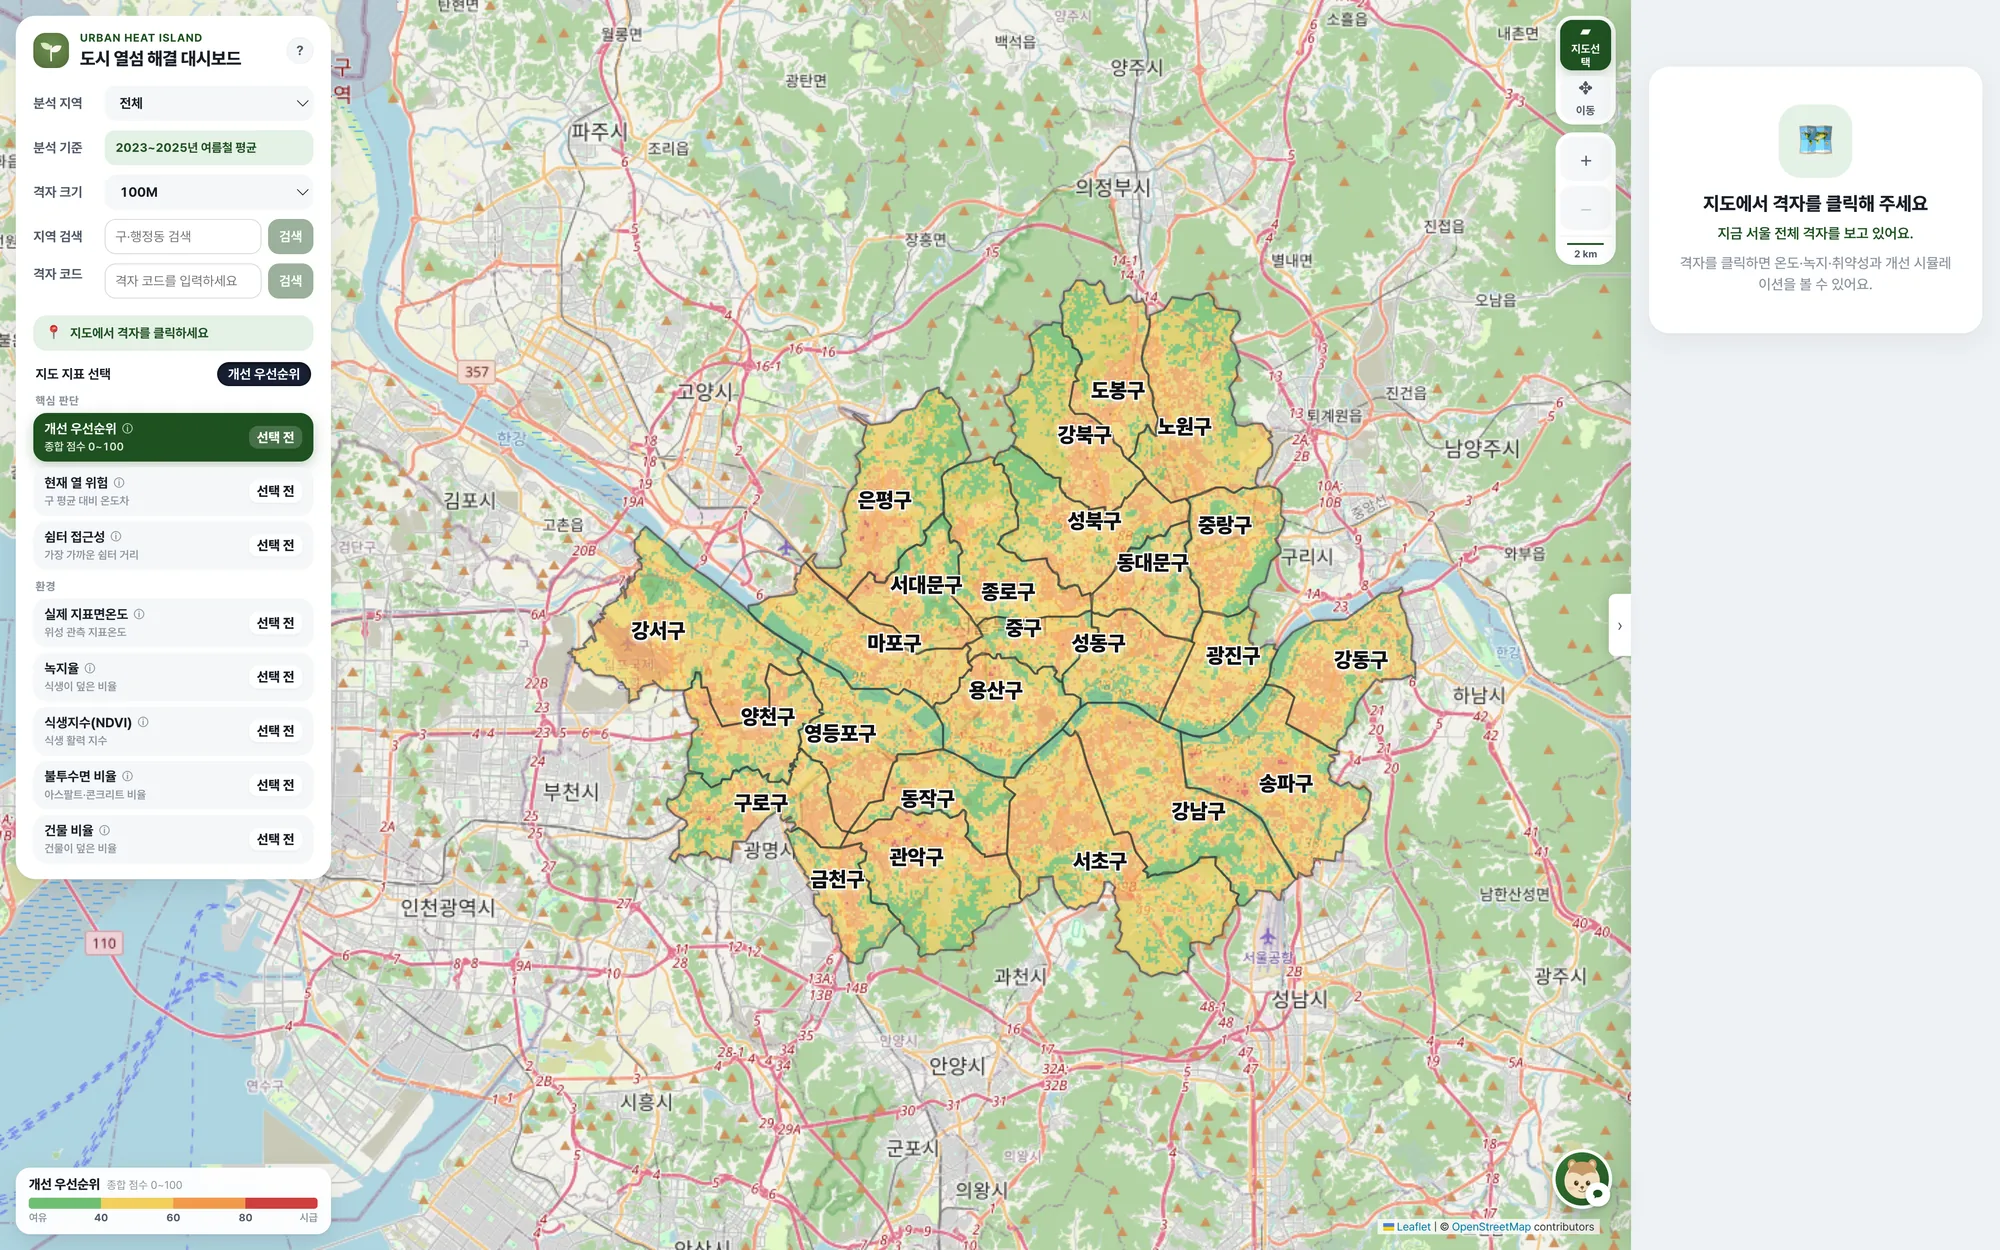
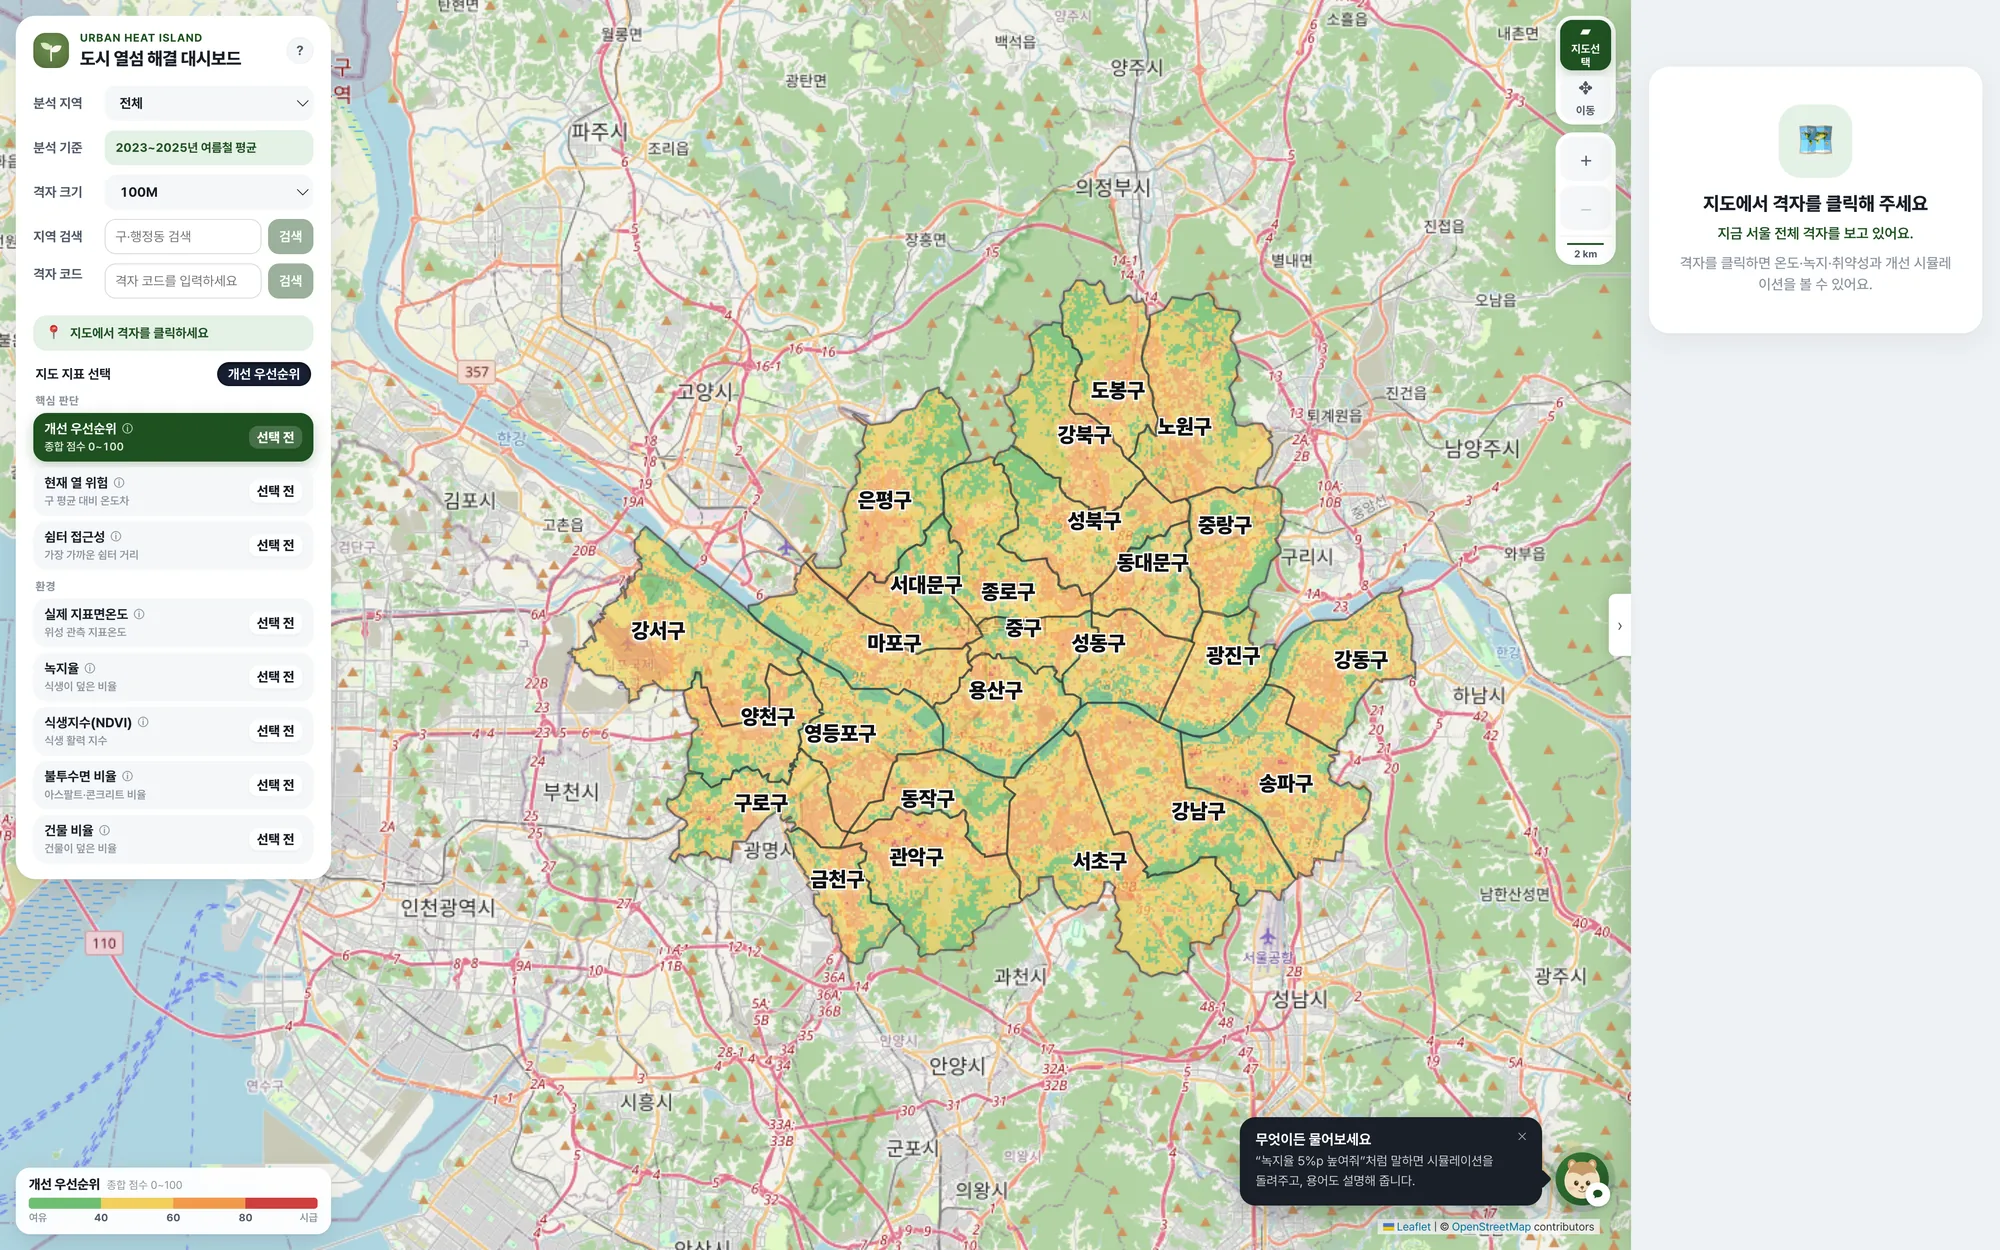
feat: 가이드 글 정리 + 챗봇 안내 (#93)
**글씨** — 같은 크기의 문단이 쌓여 있어 어디부터 읽을지 알기 어려웠다. 첫 줄은
그 단계의 요점으로 크고 진하게(15px), 나머지는 초록 점을 단 목록(13px)으로 나눴다.

**챗봇을 알리는 문제** — 버튼이 마스코트 얼굴 + 말풍선 배지인데, 이름표가 hover
로만 떠서 처음 온 사람은 챗봇이 있다는 걸 영영 모른다. 마우스를 올려볼 이유가
없기 때문이다. 두 군데서 알린다.

1. 가이드에 5단계 '말로 물어봐도 됩니다' 추가. 챗봇 창 사진과 함께 무엇을 물을
   수 있는지 예시로 보여준다.
2. 가이드를 닫으면 버튼 옆에 말풍선이 한 번 뜨고 버튼에 초록 테두리가 생긴다.
   가이드와 동시에 띄우면 둘 다 안 읽히므로, 가이드가 닫히는 시점을 이벤트로
   받아 그 뒤에 띄운다. 재방문자(가이드를 이미 본 사람)에게는 바로 뜬다.
   한 번 닫으면 gaon_chat_hint_seen 으로 기억해 다시 뜨지 않는다.

diff --git a/src/styles.css b/src/styles.css
@@ -53,6 +53,7 @@
 .gridDetailSidePanel,
 .aiChatDock,
 .aiChatFab,
+.aiChatHint,
 .leaflet-control-container {
   zoom: var(--ui-scale);
 }
@@ -3707,6 +3708,12 @@ body.isDraggingChatDock .aiChatDock .gdpChatHeader{ cursor:grabbing; }
   right: calc(var(--detail-panel-width) + var(--chat-edge-gap));
 }
 
+.gisShell.panelOpen .aiChatHint {
+  right: calc(
+    var(--detail-panel-width) + var(--chat-edge-gap) + var(--chat-fab-size) + 12px
+  );
+}
+
 .aiChatDock,
 .aiChatFab {
   transition-property: right, transform, box-shadow;
@@ -3719,6 +3726,9 @@ body.isDraggingChatDock .aiChatDock .gdpChatHeader{ cursor:grabbing; }
   .gisShell.panelOpen .aiChatDock,
   .gisShell.panelOpen .aiChatFab {
     right: 16px;
+  }
+  .gisShell.panelOpen .aiChatHint {
+    right: calc(16px + var(--chat-fab-size) + 12px);
   }
   .gisShell.panelOpen .aiChatDock {
     right: 0;
@@ -4499,11 +4509,44 @@ body.isDraggingChatDock .aiChatDock .gdpChatHeader{ cursor:grabbing; }
   min-width: 0;
 }
 
-.onboardingBody p {
-  margin: 0 0 9px;
+/* 첫 줄(요점)은 크고 진하게, 나머지는 초록 점을 단 목록으로. 전부 같은 크기로
+   쌓으면 어디부터 읽어야 할지 모를 문단 덩어리가 된다. */
+.onboardingLead {
+  margin: 0;
+  color: var(--gdp-ink);
+  font-size: 15px;
+  font-weight: 600;
+  line-height: 1.6;
+  letter-spacing: -0.01em;
+}
+
+.onboardingText ul {
+  display: flex;
+  margin: 14px 0 0;
+  flex-direction: column;
+  gap: 10px;
+  padding: 0;
+  list-style: none;
+}
+
+.onboardingText li {
+  position: relative;
+  padding-left: 15px;
   color: var(--gdp-ink2);
-  font-size: 13.5px;
-  line-height: 1.7;
+  font-size: 13px;
+  line-height: 1.65;
+}
+
+.onboardingText li::before {
+  position: absolute;
+  top: 8px;
+  left: 0;
+  width: 5px;
+  height: 5px;
+  border-radius: 50%;
+  background: var(--gdp-green);
+  content: '';
+  opacity: 0.55;
 }
 
 /* 사진 자리는 비율로 잡아둔다. 사진이 아직 없어도 팝업 높이가 단계마다
@@ -4550,10 +4593,11 @@ body.isDraggingChatDock .aiChatDock .gdpChatHeader{ cursor:grabbing; }
 
   .onboardingText {
     display: flex;
-    width: 308px;
+    width: 320px;
     flex: none;
     flex-direction: column;
     justify-content: center;
+    padding-right: 4px;
   }
 }
 
@@ -4647,4 +4691,91 @@ body.isDraggingChatDock .aiChatDock .gdpChatHeader{ cursor:grabbing; }
 
 .onboardingRecall b {
   color: var(--gdp-ink2);
+}
+
+
+/* ── 챗봇 첫 안내 말풍선 ────────────────────────────────────────────────
+   버튼은 마스코트 얼굴 + 말풍선 배지인데, 처음 온 사람은 마우스를 올려볼 이유가
+   없어 이름표(hover 툴팁)를 영영 못 본다. 첫 접속에 한 번만 옆에 띄운다.
+   위치는 FAB 과 같은 기준(오른쪽 아래)에서 버튼 폭만큼 왼쪽으로 민 자리다. */
+.aiChatHint {
+  position: fixed;
+  z-index: 1101;
+  right: calc(var(--chat-edge-gap) + var(--chat-fab-size) + 12px);
+  bottom: var(--chat-bottom-gap);
+  display: grid;
+  max-width: min(272px, calc(100vw - 130px));
+  gap: 3px;
+  padding: 12px 32px 13px 14px;
+  border-radius: 14px;
+  background: #191f28;
+  box-shadow: 0 10px 28px rgba(15, 22, 33, 0.28);
+  color: #ffffff;
+  animation: aiChatHintIn 0.28s ease both;
+}
+
+.aiChatHint strong {
+  font-size: 13px;
+  font-weight: 700;
+}
+
+.aiChatHint span {
+  color: rgba(255, 255, 255, 0.78);
+  font-size: 11.5px;
+  line-height: 1.55;
+}
+
+/* 어느 버튼을 말하는지 알 수 있게 꼬리를 단다. */
+.aiChatHint::after {
+  position: absolute;
+  right: -6px;
+  bottom: 18px;
+  width: 12px;
+  height: 12px;
+  transform: rotate(45deg);
+  border-radius: 2px;
+  background: #191f28;
+  content: '';
+}
+
+.aiChatHintClose {
+  position: absolute;
+  top: 7px;
+  right: 8px;
+  width: 20px;
+  height: 20px;
+  padding: 0;
+  border: 0;
+  border-radius: 6px;
+  background: transparent;
+  color: rgba(255, 255, 255, 0.6);
+  cursor: pointer;
+  font-size: 10px;
+}
+
+.aiChatHintClose:hover {
+  background: rgba(255, 255, 255, 0.12);
+  color: #ffffff;
+}
+
+/* 말풍선이 떠 있는 동안에는 버튼도 한 번 눈에 띄게 한다. */
+.aiChatFab.hasHint {
+  box-shadow: 0 0 0 6px rgba(31, 81, 33, 0.18), 0 10px 24px rgba(20, 30, 45, 0.24);
+}
+
+@keyframes aiChatHintIn {
+  from {
+    opacity: 0;
+    transform: translateX(8px);
+  }
+  to {
+    opacity: 1;
+    transform: translateX(0);
+  }
+}
+
+@media (prefers-reduced-motion: reduce) {
+  .aiChatHint {
+    animation: none;
+  }
 }

diff --git a/src/components/AiChatLauncher.tsx b/src/components/AiChatLauncher.tsx
@@ -1,6 +1,32 @@
 import { useEffect, useRef, useState } from 'react';
 import AiChatView from './AiChatView';
 import { applyDockPosition, createDockDrag, loadDockPosition } from '../chatDockDrag';
+import { GUIDE_CLOSED_EVENT, ONBOARDING_STORAGE_KEY } from './OnboardingGuide';
+
+/**
+ * 챗봇이 있다는 걸 한 번은 말해준다.
+ *
+ * 버튼은 마스코트 얼굴 + 말풍선 배지인데, 처음 온 사람은 마우스를 올려볼 이유가
+ * 없어서 이름표(hover 툴팁)를 영영 못 본다. 그래서 첫 접속에 딱 한 번, 버튼 옆에
+ * 말풍선을 띄운다. 한 번 본 뒤에는 다시 뜨지 않는다.
+ */
+const CHAT_HINT_STORAGE_KEY = 'gaon_chat_hint_seen';
+
+function readFlag(key: string): boolean {
+  try {
+    return window.localStorage.getItem(key) === '1';
+  } catch {
+    return true;   // 저장을 못 읽는 환경이면 '이미 봤다'로 친다. 매번 뜨는 게 더 나쁘다.
+  }
+}
+
+function writeFlag(key: string) {
+  try {
+    window.localStorage.setItem(key, '1');
+  } catch {
+    // 저장이 막혀도 이번 방문에는 안 뜬다. 기능은 막지 않는다.
+  }
+}
 
 // GA:ON AI 채팅 진입점.
 //
@@ -63,6 +89,9 @@ export default function AiChatLauncher({
   const [isOpen, setIsOpen] = useState(false);
   // 창을 닫아둔 사이에 답변이 도착했는지. 요청은 창을 닫아도 계속 진행된다.
   const [hasUnread, setHasUnread] = useState(false);
+  // 첫 접속 말풍선. 사용 가이드가 떠 있는 동안 같이 뜨면 둘 다 안 읽히므로,
+  // 가이드를 아직 안 본 사람은 가이드가 닫힌 뒤에 띄운다.
+  const [hintOpen, setHintOpen] = useState(false);
   const fabRef = useRef<HTMLButtonElement>(null);
   const dockRef = useRef<HTMLDivElement>(null);
 
@@ -83,6 +112,26 @@ export default function AiChatLauncher({
   useEffect(() => {
     if (isOpen) dockRef.current?.focus();
   }, [isOpen]);
+
+  // 말풍선을 언제 띄울지. 이미 본 사람에게는 띄우지 않는다.
+  useEffect(() => {
+    if (readFlag(CHAT_HINT_STORAGE_KEY)) return;
+
+    // 가이드를 이미 본 사람(재방문)이면 바로, 처음 온 사람이면 가이드를 닫은 뒤.
+    if (readFlag(ONBOARDING_STORAGE_KEY)) {
+      setHintOpen(true);
+      return;
+    }
+    const onGuideClosed = () => setHintOpen(true);
+    window.addEventListener(GUIDE_CLOSED_EVENT, onGuideClosed);
+    return () => window.removeEventListener(GUIDE_CLOSED_EVENT, onGuideClosed);
+  }, []);
+
+  function dismissHint() {
+    if (!hintOpen) return;
+    setHintOpen(false);
+    writeFlag(CHAT_HINT_STORAGE_KEY);
+  }
 
   // 창을 헤더로 끌어 옮긴다.
   //
@@ -146,10 +195,29 @@ export default function AiChatLauncher({
         />
       </div>
 
+      {/* 첫 접속 말풍선. 버튼 안에 넣을 수 없다 — 닫기 버튼이 들어가는데 버튼
+          안의 버튼은 안 된다. 그래서 형제로 두고 위치를 따로 잡는다. */}
+      {hintOpen && !isOpen && (
+        <div className="aiChatHint" role="status">
+          <strong>무엇이든 물어보세요</strong>
+          <span>
+            “녹지율 5%p 높여줘”처럼 말하면 시뮬레이션을 돌려주고, 용어도 설명해 줍니다.
+          </span>
+          <button
+            className="aiChatHintClose"
+            type="button"
+            aria-label="안내 닫기"
+            onClick={dismissHint}
+          >
+            ✕
+          </button>
+        </div>
+      )}
+
       <button
         ref={fabRef}
         type="button"
-        className={`aiChatFab${isOpen ? ' isOpen' : ''}`}
+        className={`aiChatFab${isOpen ? ' isOpen' : ''}${hintOpen ? ' hasHint' : ''}`}
         aria-label={
           isOpen
             ? 'GA:ON AI 챗봇 닫기'
@@ -159,6 +227,7 @@ export default function AiChatLauncher({
         }
         aria-expanded={isOpen}
         onClick={() => {
+          dismissHint();
           if (isOpen) {
             close();
           } else {

diff --git a/src/components/OnboardingGuide.tsx b/src/components/OnboardingGuide.tsx
@@ -8,6 +8,9 @@ import { createPortal } from 'react-dom';
  */
 export const ONBOARDING_STORAGE_KEY = 'gaon_onboarding_seen';
 
+/** 가이드가 닫혔다는 신호. 챗봇 말풍선이 이 뒤에 뜬다. */
+export const GUIDE_CLOSED_EVENT = 'gaon:guide-closed';
+
 /** 첫 접속인지. localStorage를 못 쓰는 환경(사생활 보호 모드 등)에서는 띄우지 않는다. */
 export function shouldShowOnboarding(): boolean {
   try {
@@ -76,6 +79,16 @@ const STEPS: readonly Step[] = [
     ],
     image: '/guide/step-4-simulation.webp',
     imageAlt: '정책 시나리오와 직접 시뮬레이션 화면'
+  },
+  {
+    title: '말로 물어봐도 됩니다',
+    body: [
+      '오른쪽 아래 마스코트를 누르면 AI 챗봇이 열립니다.',
+      '"녹지율을 5%p 높여줘"처럼 말하면 시뮬레이션을 대신 돌려주고, "어떤 정책이 가장 효과적이야?"처럼 물으면 정책을 비교해 줍니다.',
+      '"NDVI가 무슨 뜻이야?" 같은 용어 질문은 격자를 고르지 않아도 답합니다.'
+    ],
+    image: '/guide/step-5-chat.webp',
+    imageAlt: 'AI 챗봇 창이 열린 화면'
   }
 ];
 
@@ -97,10 +110,7 @@ function OnboardingGuide({ onClose }: Props) {
 
   useEffect(() => {
     const onKeyDown = (event: KeyboardEvent) => {
-      if (event.key === 'Escape') {
-        rememberSeen();
-        onClose();
-      }
+      if (event.key === 'Escape') close();
     };
     window.addEventListener('keydown', onKeyDown);
     return () => window.removeEventListener('keydown', onKeyDown);
@@ -108,6 +118,9 @@ function OnboardingGuide({ onClose }: Props) {
 
   function close() {
     rememberSeen();
+    // 챗봇 말풍선이 이어서 뜬다(AiChatLauncher). 가이드가 떠 있는 동안 같이
+    // 뜨면 둘 다 읽히지 않아서, 닫히는 시점을 알려준다.
+    window.dispatchEvent(new Event(GUIDE_CLOSED_EVENT));
     onClose();
   }
 
@@ -156,10 +169,17 @@ function OnboardingGuide({ onClose }: Props) {
             )}
           </div>
 
+          {/* 첫 줄은 그 단계의 요점, 나머지는 곁들이는 설명. 다 같은 크기로 쌓으면
+              어디부터 읽어야 할지 모르겠는 문단 덩어리가 된다. */}
           <div className="onboardingText">
-            {current.body.map((line) => (
-              <p key={line}>{line}</p>
-            ))}
+            <p className="onboardingLead">{current.body[0]}</p>
+            {current.body.length > 1 && (
+              <ul>
+                {current.body.slice(1).map((line) => (
+                  <li key={line}>{line}</li>
+                ))}
+              </ul>
+            )}
           </div>
         </div>
 

diff --git a/scripts/guide-shots-to-webp.py b/scripts/guide-shots-to-webp.py
@@ -27,6 +27,7 @@ JOBS: list[tuple[str, tuple[float, float, float] | None]] = [
     # 폭에서 나오므로, 세로를 더 담으려면 폭을 넓혀야 한다.
     ("step-3-indicator", (0.0, 0.0, 0.60)),         # 왼쪽 지표 목록 + 지도 색
     ("step-4-simulation", (0.47, 0.0, 0.53)),       # 오른쪽 정책 패널
+    ("step-5-chat", (0.40, 0.30, 0.60)),            # 챗봇 창
 ]
 
 # 넓은 화면에서 팝업의 사진이 1,014px 로 보인다. 고해상도 화면은 그 2배를
